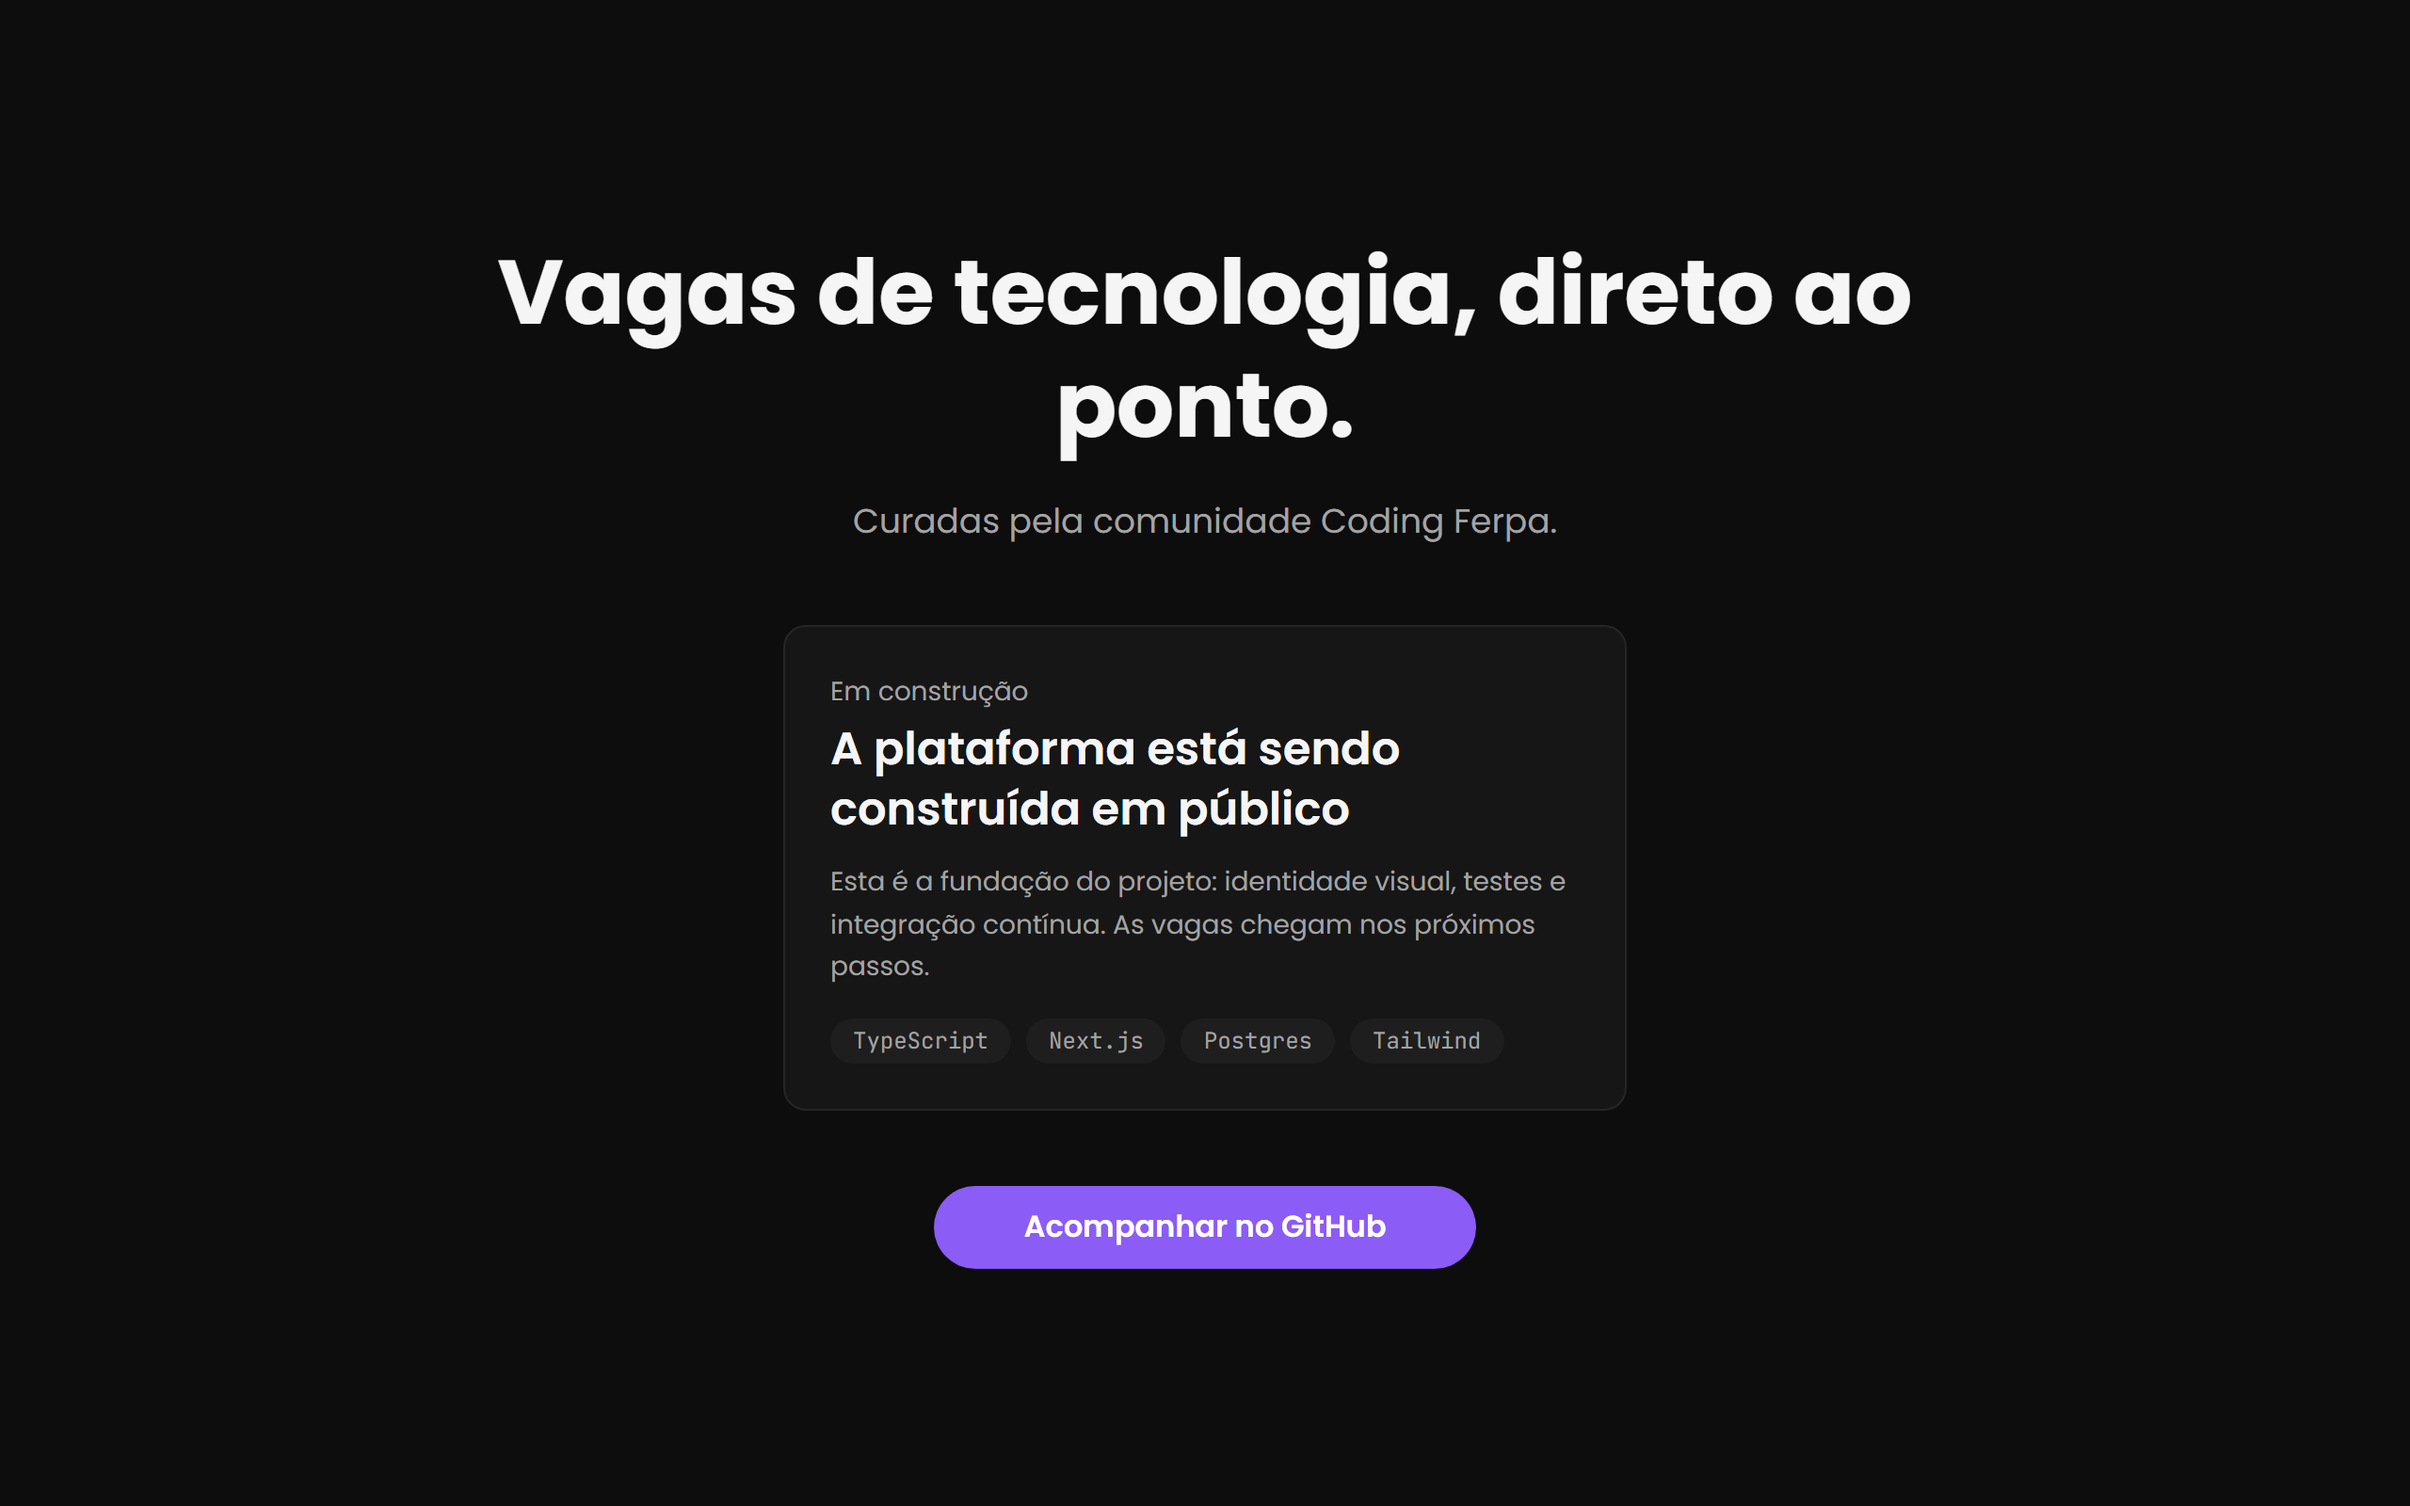
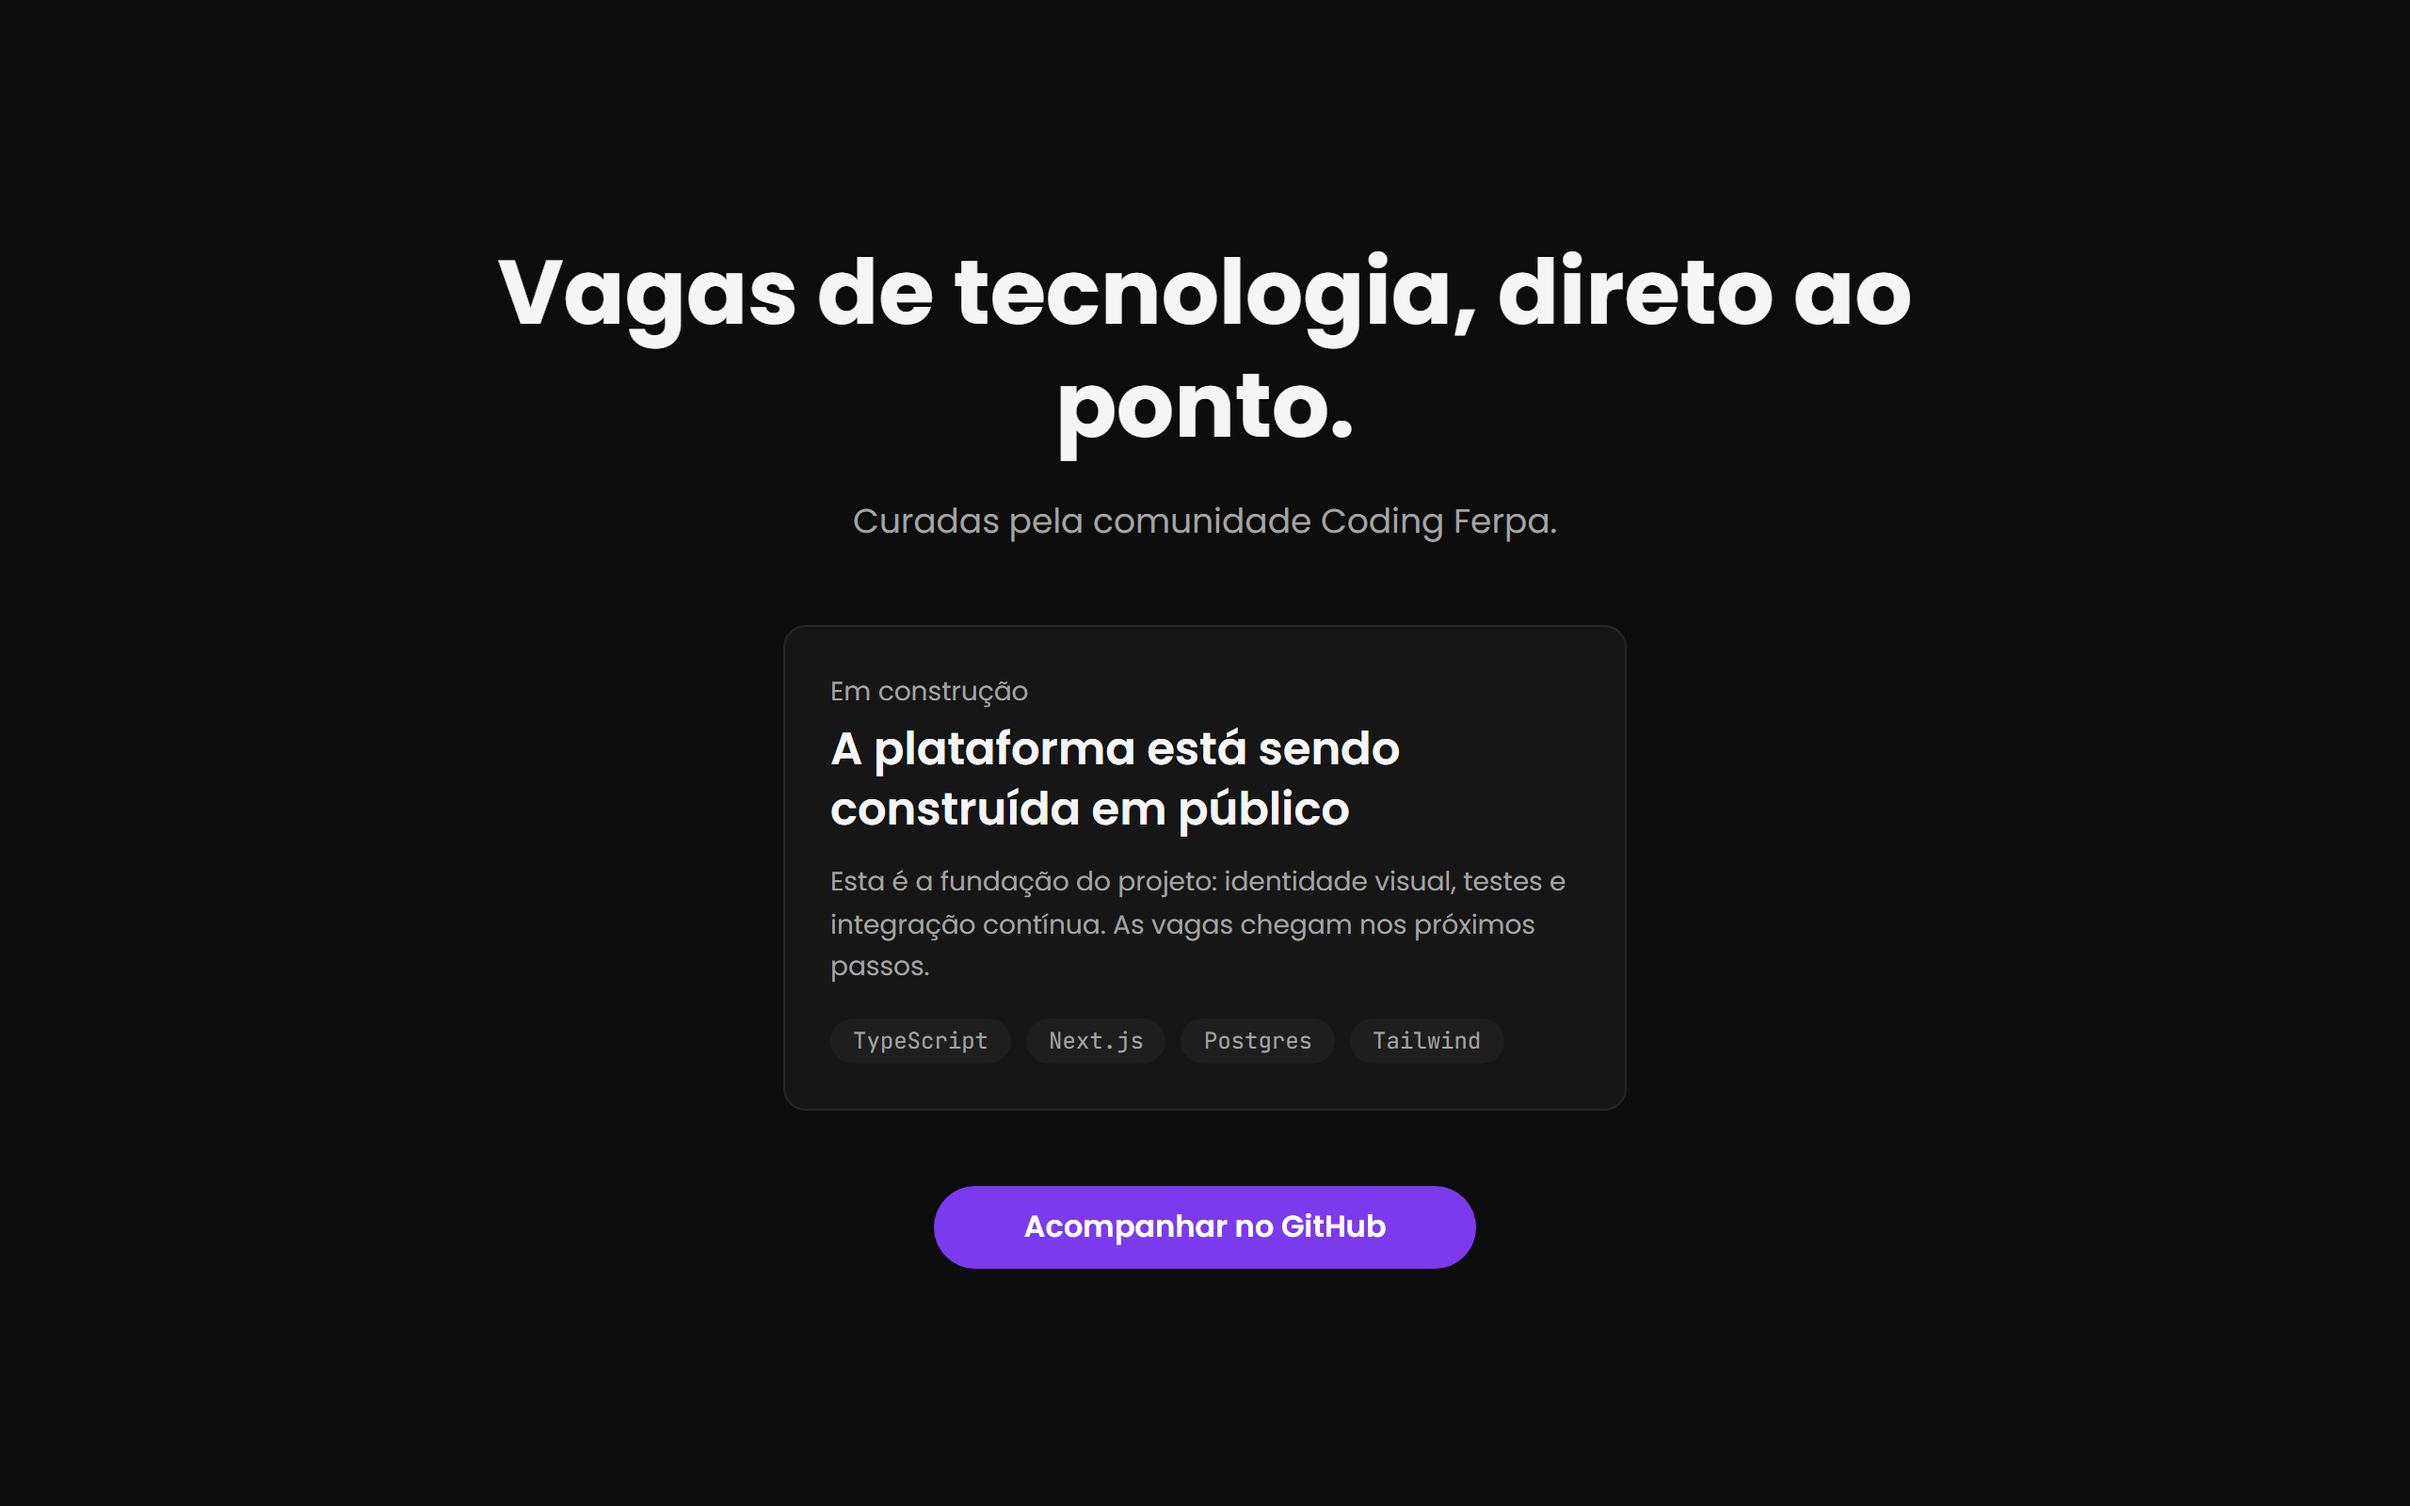
feat(ui): adota o token primary-solid nos controles preenchidos
Acompanha a atualização do doc 03 (a0a0e8e): #7c3aed passa a ser o fundo
de botões e badges sólidos com texto branco (5,7:1, AA), enquanto #8b5cf6
segue como acento de bordas, foco, glow e ícones. Atualiza a captura do
README, onde o CTA mudou de tom.

Changed region(s): [[0.375, 0.7812, 0.625, 0.8438]]

diff --git a/src/app/globals.css b/src/app/globals.css
@@ -13,6 +13,9 @@
   --surface: #1e1e1e;
   --border: #262626;
   --primary: #8b5cf6;
+  /* Fundo de controles preenchidos com texto branco: 5,7:1 (AA). O acento
+     #8b5cf6 rende apenas ~4,2:1 e nunca é fundo de texto normal (doc 03). */
+  --primary-solid: #7c3aed;
   --primary-muted: #c4b5fd;
   --foreground: #f5f5f5;
   --muted-foreground: #a3a3a3;
@@ -33,6 +36,7 @@
   --surface: #f4f4f5;
   --border: #e4e4e7;
   --primary: #7c3aed;
+  --primary-solid: #7c3aed;
   --primary-muted: #a78bfa;
   --foreground: #18181b;
   --muted-foreground: #52525b;
@@ -48,6 +52,7 @@
   --color-surface: var(--surface);
   --color-border: var(--border);
   --color-primary: var(--primary);
+  --color-primary-solid: var(--primary-solid);
   --color-primary-muted: var(--primary-muted);
   --color-foreground: var(--foreground);
   --color-muted-foreground: var(--muted-foreground);

diff --git a/src/app/(public)/page.tsx b/src/app/(public)/page.tsx
@@ -35,7 +35,7 @@ export default function HomePage() {
       </article>
 
       <a
-        className="bg-primary hover:shadow-glow rounded-full px-12 py-2.5 font-semibold text-white transition duration-150"
+        className="bg-primary-solid hover:shadow-glow rounded-full px-12 py-2.5 font-semibold text-white transition duration-150"
         href="https://github.com/Coding-Ferpa/cf-jobs"
         rel="noopener"
         target="_blank"
